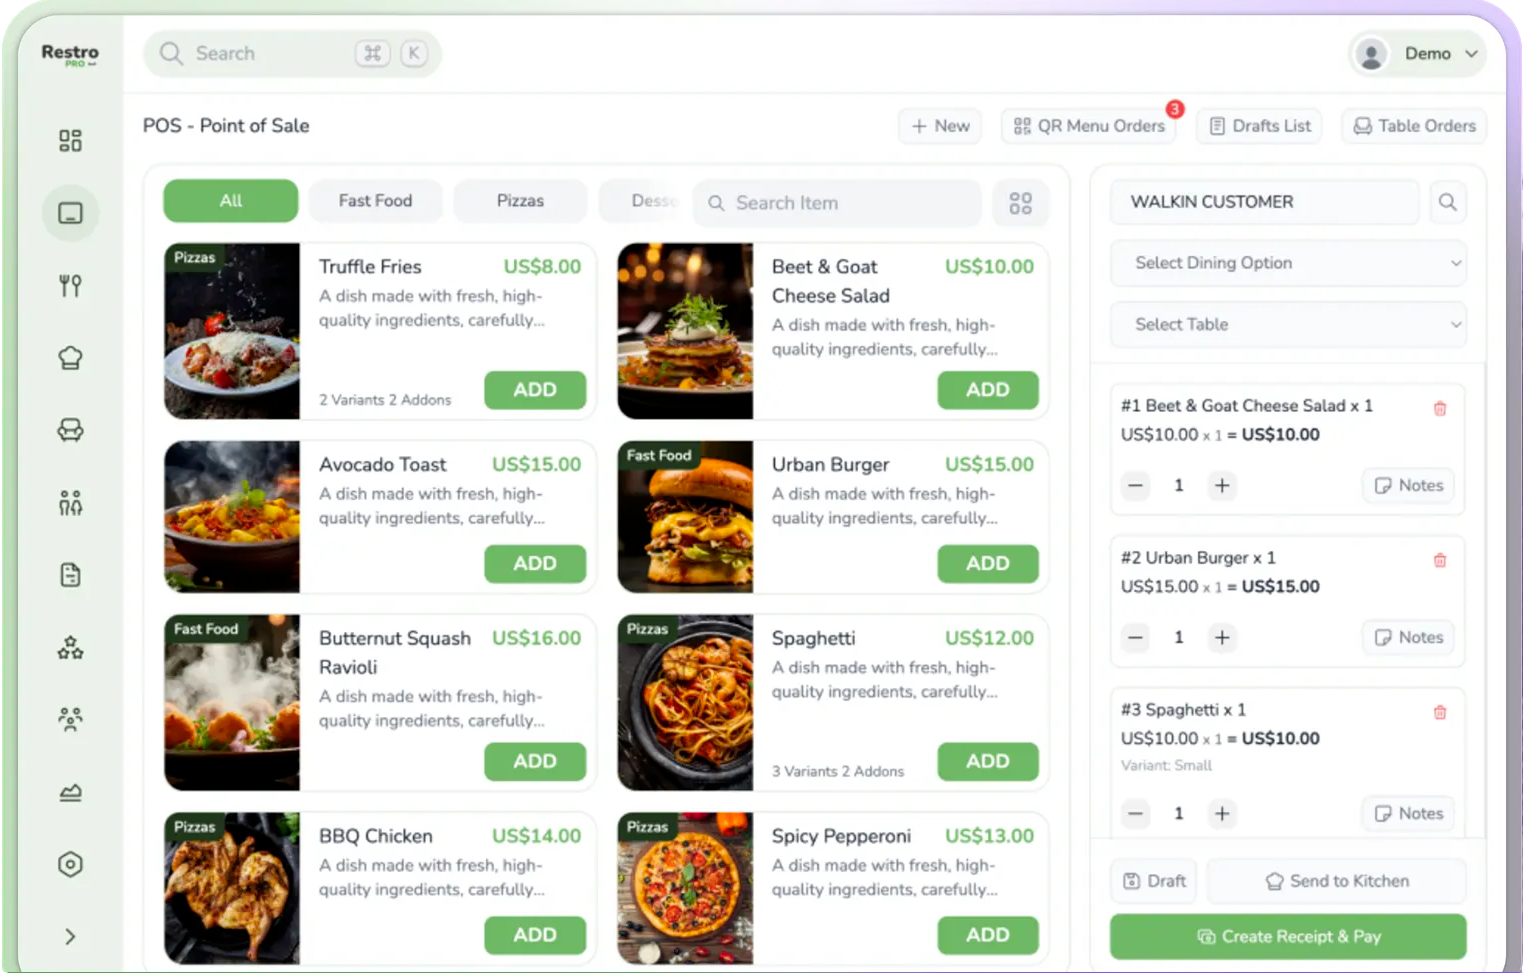
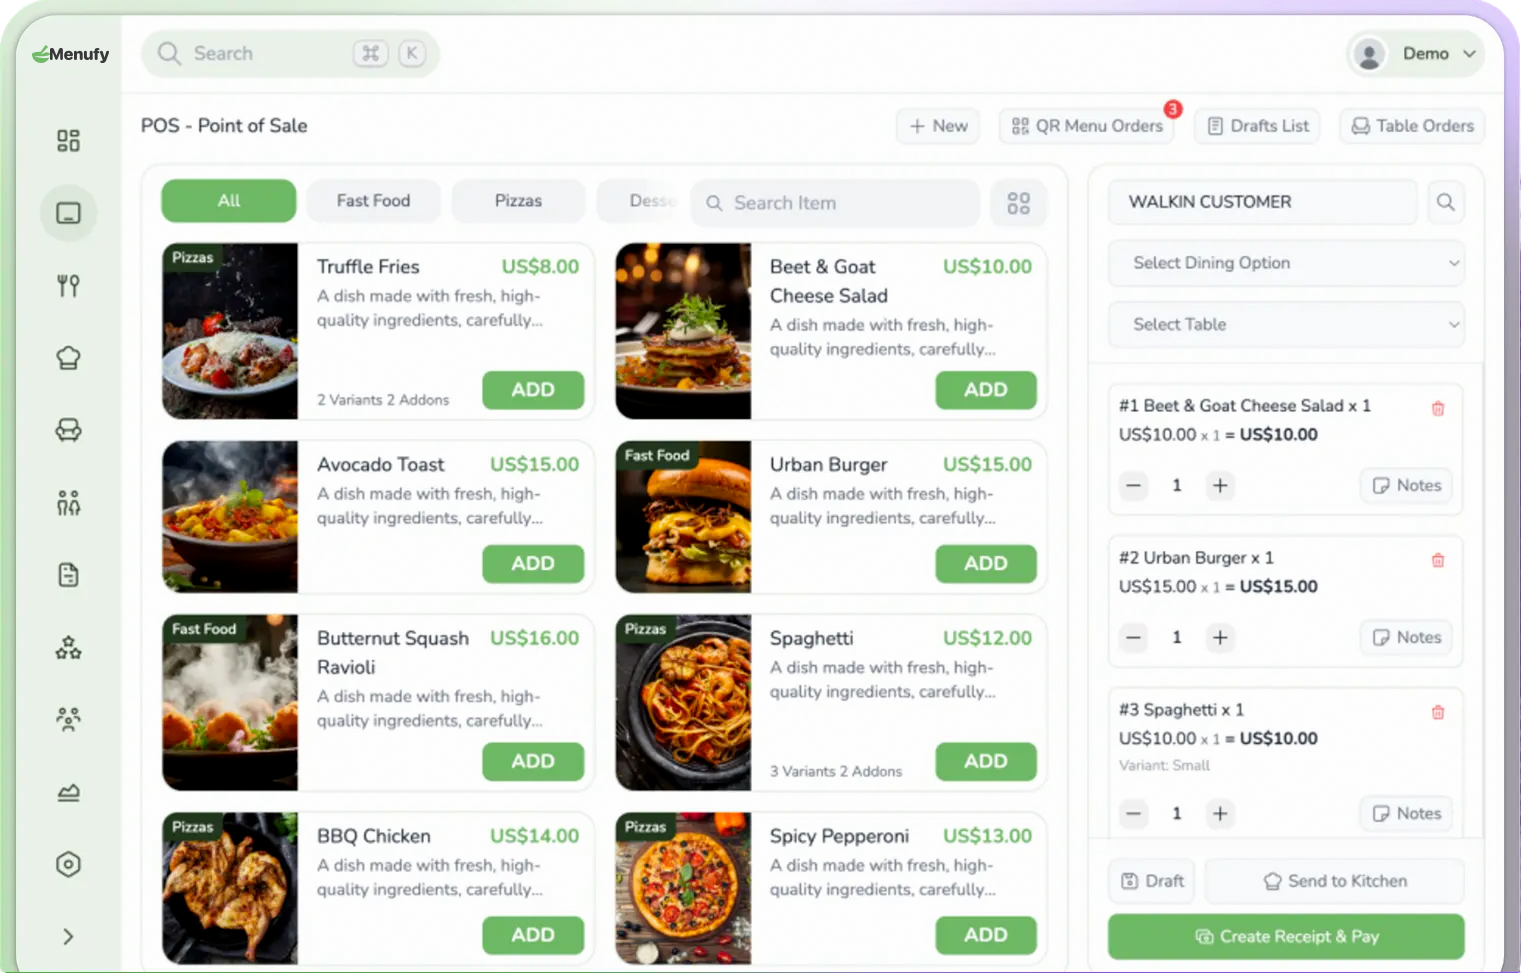
feat: mise à jour de l'URL de l'image héro pour inclure un paramètre de version

diff --git a/resto-frontend/src/views/LandingPage/LandingPage.jsx b/resto-frontend/src/views/LandingPage/LandingPage.jsx
@@ -135,7 +135,7 @@ export default function LandingPage() {
       <div className="container mx-auto px-4 sm:px-6 lg:px-12 -mt-12 sm:-mt-16">
         <div className="max-w-5xl mx-auto">
           <img
-            src="/assets/hero.png"
+            src="/assets/hero.png?v=5"
             alt="menufy image"
             className="w-full rounded-xl sm:rounded-2xl shadow-xl sm:shadow-2xl shadow-gray-900/10"
           />
